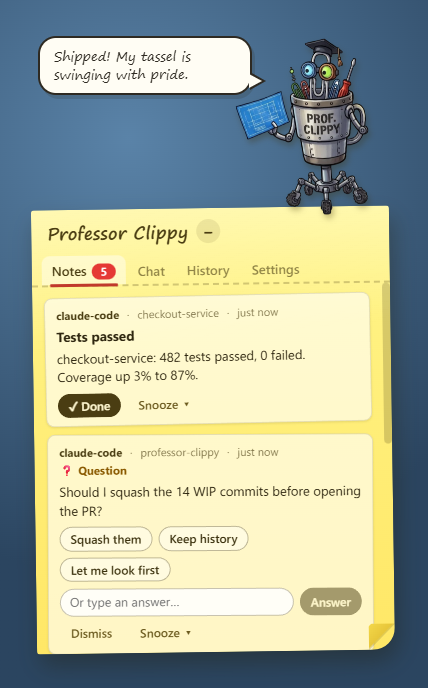
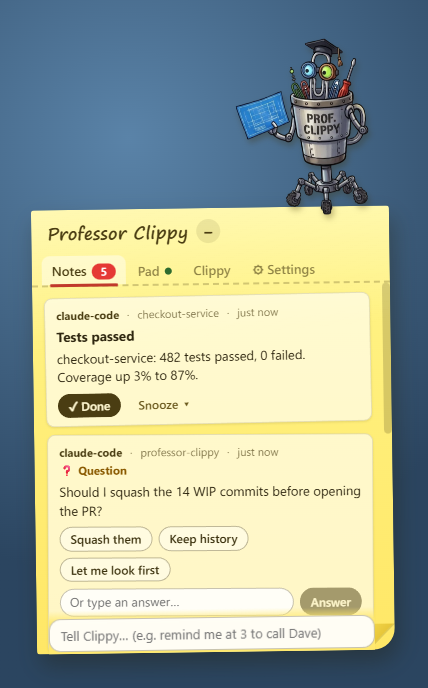
Document the Pad, themes, Settings and welcome; bump to 0.6.0

diff --git a/README.md b/README.md
@@ -13,12 +13,13 @@ you have been away from the PC for a few minutes (Settings → Phone → Send to
 at once), and you can answer, or just chat with him, from your phone. When you go away, only notes
 that have waited less than an hour are sent; older ones stay on the desk.
 
-<img src="docs/screenshots/expanded-notes.png" width="300" alt="The sticky note with agent messages"> <img src="docs/screenshots/first-run.png" width="300" alt="The first-run wizard">
+<img src="docs/screenshots/expanded-notes.png" width="300" alt="The sticky note with agent messages"> <img src="docs/screenshots/expanded-pad.png" width="300" alt="The Pad"> <img src="docs/screenshots/expanded-settings.png" width="300" alt="The Settings menu"> <img src="docs/screenshots/first-run.png" width="300" alt="The welcome, first step">
 
 - **Agents talk to Clippy through an MCP server** (`clippy`): `leave_message`, `remind_me`
   (ISO time, optional RRULE), `ask_user` (blocks until you answer, 10 minutes by default),
   `check_reply`, `list_reminders`, `cancel_reminder`, `list_pending_asks`, `answer_pending`,
-  and the Pad tools `write_page`, `read_page`, `list_pages` (below).
+  and the Pad tools `write_page`, `read_page` and `list_pages` (below; `archive_page` is Clippy's
+  alone).
 - **A Claude Code hook** leaves a note when an agent finishes or needs your permission.
   "Agent finished" notes only interrupt you when you have been away from the PC (no keyboard or
   mouse input) for a while: Settings → Phone → "I count as away after N
@@ -35,15 +36,16 @@ that have waited less than an hour are sent; older ones stay on the desk.
   an app or the PC, below). Of the `clippy` tools
   it gets all but `ask_user` and `check_reply` (a brain turn waiting for your answer would hold
   up every chat turn behind it), so when it needs something from you it simply asks in its reply.
-  It also has twelve tools no agent sees: `list_notes`, `recent_activity`, `snooze_note`,
-  `dismiss_note`, `set_look` (colour themes, below), `archive_page` and the standing-order and watch tools below. Tell him "not now, bring it back after
+  It also has fifteen tools no agent sees: `list_notes`, `recent_activity`, `snooze_note`,
+  `dismiss_note`, `set_look` (colour themes, below), `archive_page` and the standing-order, watch and restart tools below. Tell him "not now, bring it back after
   lunch" and he snoozes the newest unread note; ask "what happened while I was at lunch?" or
   "what's waiting on me?" and he summarises.
 - **The Pad** is a set of pages you keep (a scratch page, a shopping list, a call to make), unlike
   notes, which you dismiss. Clippy writes them for you ("jot down: call Dave about the invoice",
   "add milk to my shopping page", "what did I write about the deploy?"), and agents can leave
-  you one to keep, such as a checklist or a summary, with `write_page`. An agent can only change
-  the pages it wrote itself; yours, and other agents', are refused. If Clippy or an agent changes a
+  you one to keep, such as a checklist or a summary, with `write_page` (`read_page` and `list_pages`
+  read them; only Clippy can `archive_page`). An agent can only change the pages it wrote itself;
+  yours, and other agents', are refused, while Clippy can change any page. If Clippy or an agent changes a
   page while you are typing in it, your save is refused rather than overwriting theirs (so nothing
   is silently lost). A page written by someone else counts as new until you open it. Pages nobody
   has changed for 30 days are archived (not pinned ones, or ones popped out on the desktop); you
@@ -57,6 +59,8 @@ that have waited less than an hour are sent; older ones stay on the desk.
   puts it back in the Pad (the page stays, so there is nothing to clean up; "Un-pin" in the Pad
   does the same). Pinned-out pages come back where you left them after a restart, moved onto your
   screen if that monitor is gone, and they follow the theme.
+
+  <img src="docs/screenshots/pad-popout.png" width="300" alt="A Pad page pinned out on the desktop">
 - **Colour themes**: the note can be classic yellow, mint, blush, sky or peach, or one of two dark
   ones, night and chalkboard (Clippy gets a soft rim light on those). "Follow Windows dark mode"
   switches to your chosen dark theme while Windows is dark and back again, within a second and
@@ -167,12 +171,13 @@ npm run package
   4. **Try it**: a practice question ("Tea or coffee?") on a real question card. Tap an answer; it
      stays on the note and goes nowhere. Then the Tell Clippy hotkey, and **Finish** opens the Pad.
 - **Getting started** sits at the top of the Pad ("Getting started 📎 3/7") until you have done
-  all seven things on it or closed it with ×: connect Claude Code, answer a question, tell Clippy
-  something, snooze a note, set a standing order, pin a page to the desktop, get a morning brief.
+  all seven things on it or closed it with ×: connect Claude Code, answer a question, tell Clippy something with the hotkey,
+  snooze a note, set a standing order, pin a page to the desktop, get a morning brief.
   Each ticks itself when you do it; the ones left say how. For the first two weeks Clippy also
   drops a few one-time **tips** in his speech bubble (at most one an hour, never over a new
-  message's line; off in Settings → Look → Show tips). Existing installs skip the welcome but get
-  the list and the tips.
+  message's line; off in Settings → Look → Show tips). Existing installs don't see the new
+  welcome by themselves (Settings → Windows & hotkeys → **Run the welcome again**), but they get
+  the list and the tips for 14 days.
 - Uninstall from Windows Settings → Apps. To clean Claude Code up too, run
   `node scripts/install-claude-wiring.ts uninstall` from a checkout first (see below; it finds
   the entries by name and marker, wherever they point). Your notes and settings in
@@ -199,9 +204,10 @@ The wiring does three things, all at user scope:
    install adds it.
 3. Appends a one-line hint to `~/.claude/CLAUDE.md` telling agents to use the Clippy tools (and
    `write_page` for something to keep, like a checklist). Running it again brings an older hint up
-   to date in place.
+   to date in place, so **if you installed before the Pad, run Connect Claude Code… once more** to
+   give agents the new hint about `write_page`.
 
-From the app: the first-run wizard, or Settings → Claude Code → **Connect Claude Code…**. It
+From the app: the welcome, or Settings → Claude Code → **Connect Claude Code…**. It
 always shows the dry run first.
 
 From a checkout (registers the repo's `apps/*/dist` builds instead; run `npm run build` first):
@@ -367,7 +373,7 @@ local API), `brain\` (the brain's MCP config) and `hook-state.json`.
 | --- | --- |
 | SmartScreen blocks the installer | It is unsigned: More info → Run anyway. |
 | Agents don't see the Clippy tools | Start a **new** Claude Code session. Check `claude mcp list` shows `clippy`. Re-run Connect Claude Code. Make sure `node --version` works in a new terminal (Node 24+). |
-| "Claude Code was not found" in the wizard | Install Claude Code and run `claude` once to sign in; or set `CLIPPY_CLAUDE_PATH`. |
+| "Claude Code was not found" in the welcome | Install Claude Code and run `claude` once to sign in; or set `CLIPPY_CLAUDE_PATH`. |
 | An agent says Clippy isn't running | The MCP server starts the app from `%LOCALAPPDATA%\Programs\professor-clippy\`; if you installed elsewhere, set `CLIPPY_APP_PATH` for the MCP server, or start Clippy yourself. |
 | No notes when an agent finishes | Settings → Claude Code → Claude Code hook must be on, and the hook installed (Connect Claude Code). New sessions only. While you are at the PC they go straight to History (see "I count as away after" in Settings → Phone; 0 = always pop up). |
 | Chat says Clippy can't answer / not logged in | Run `claude` in a terminal and sign in; the brain uses that login. |

diff --git a/DECISIONS.md b/DECISIONS.md
@@ -71,3 +71,24 @@ Agreed in chat: Clippy should show things only when they need you, and "chat" is
 ## Phone approvals — 2026-10-30
 
 1. Phone approvals are opt-in, only when away, answered only by the user, and never matched by standing orders. With Settings → "Approve agents' permission requests from your phone" on (off by default; it needs the Claude Code hook), a Claude Code agent's "allow this tool use?" prompt (the `PermissionRequest` hook) goes to the desk note and the phone with Allow and Deny, but only while the user has been idle past the away time; at the PC, Claude Code's normal terminal prompt shows. Only the user's own tap or reply (desk, Telegram, WhatsApp) answers one: Clippy's `answer_pending` and the local API are refused, and approvals are created in-process so standing orders never see them. The hook allows only on an explicit Allow-type answer; Deny or any other reply denies (the reply is passed to the agent); no answer within 29 minutes, a dismissed note or a Clippy restart means no decision, and the terminal prompt shows. `AskUserQuestion` always stays in the terminal.
+
+## Pad, themes and welcome — 2026-10-30
+
+Agreed in chat: the note should be able to hold things you keep, look the way you like, and teach itself to new users. The calls below were made while building it.
+
+1. The Pad is a set of pages that save as you type, unlike notes, which you dismiss. You, Clippy's brain and agents (through the MCP tools `write_page`, `read_page` and `list_pages`) can all write them; `archive_page` is Clippy's alone.
+2. Claude decided: a page nobody has changed for 30 days is archived, not deleted, and can be restored. Pinned pages and pages popped out on the desktop are never archived.
+3. Claude decided: an HTTP or MCP caller can't claim to be "you". Agents can only change or archive pages they wrote; Clippy's brain can change any page. A refused change says only the page's author or the user can make it.
+4. Claude decided: if Clippy or an agent changes a page while you are typing in it, both versions are kept. Your save is refused as stale, your text stays in the editor, and a banner offers "Keep mine" or "Use theirs".
+5. Claude decided: leaving a page while that "changed while you were typing" conflict is still open (or quitting) saves your text as a new page called "<title> (your version)", so nothing is lost.
+6. Claude decided: a page can pop out as its own sticky on the desktop. Popped pages are not always on top and are not in the taskbar, so they behave like paper rather than windows. A page that was popped out comes back where you left it after a restart.
+7. Claude decided: if a popped page is mostly off-screen and the monitor it was on is still attached, it is pulled back onto that monitor; if the monitor is gone it goes to the primary display.
+8. Claude decided: popped page windows get a corner grip to resize them, because Windows can't resize a transparent window by its edges.
+9. Claude decided: there are seven themes (classic yellow, mint, blush, sky, peach, and two dark ones, night and chalkboard). "Follow Windows dark mode" switches to the chosen dark theme while Windows is dark. Clippy's brain can change the look with `set_look`, and nothing else.
+10. Claude decided: each page can have its own colour (yellow, mint, blush, sky or peach, the light papers), so pinned-out pages are easy to tell apart on the desktop.
+11. Claude decided: Settings is a menu of sections (Pop-ups & sounds, Phone, Morning brief, Claude Code, Standing orders & watches, Look, Windows & hotkeys), each row saying what it is set to now. History moved into Settings from its own tab, and the empty Notes tab still links to it. Phone approvals live under Claude Code, with the hook they depend on.
+12. Claude decided: the welcome is four steps (Claude Code, Look, Phone, Try it), each skippable. The "Try it" step uses a practice question that stays on the note and goes nowhere.
+13. Claude decided: the one question the tour asks is answered locally; it is never stored or sent anywhere.
+14. Claude decided: a Getting started list sits on the Pad (connect Claude Code, answer a question, tell Clippy something with the hotkey, snooze a note, set a standing order, pin a page, get a morning brief). Each item ticks itself, and you can close the list.
+15. Claude decided: tips (a few one-time hints in Clippy's speech bubble) run for the first 14 days only, at most one an hour, and can be switched off in Settings → Look → Show tips. They only show while the note is open; a tip that can't show waits for its next trigger.
+16. Claude decided: existing installs don't see the new welcome automatically (Settings → Windows & hotkeys → Run the welcome again brings it back), but they get the Getting started list and the tips for 14 days.
